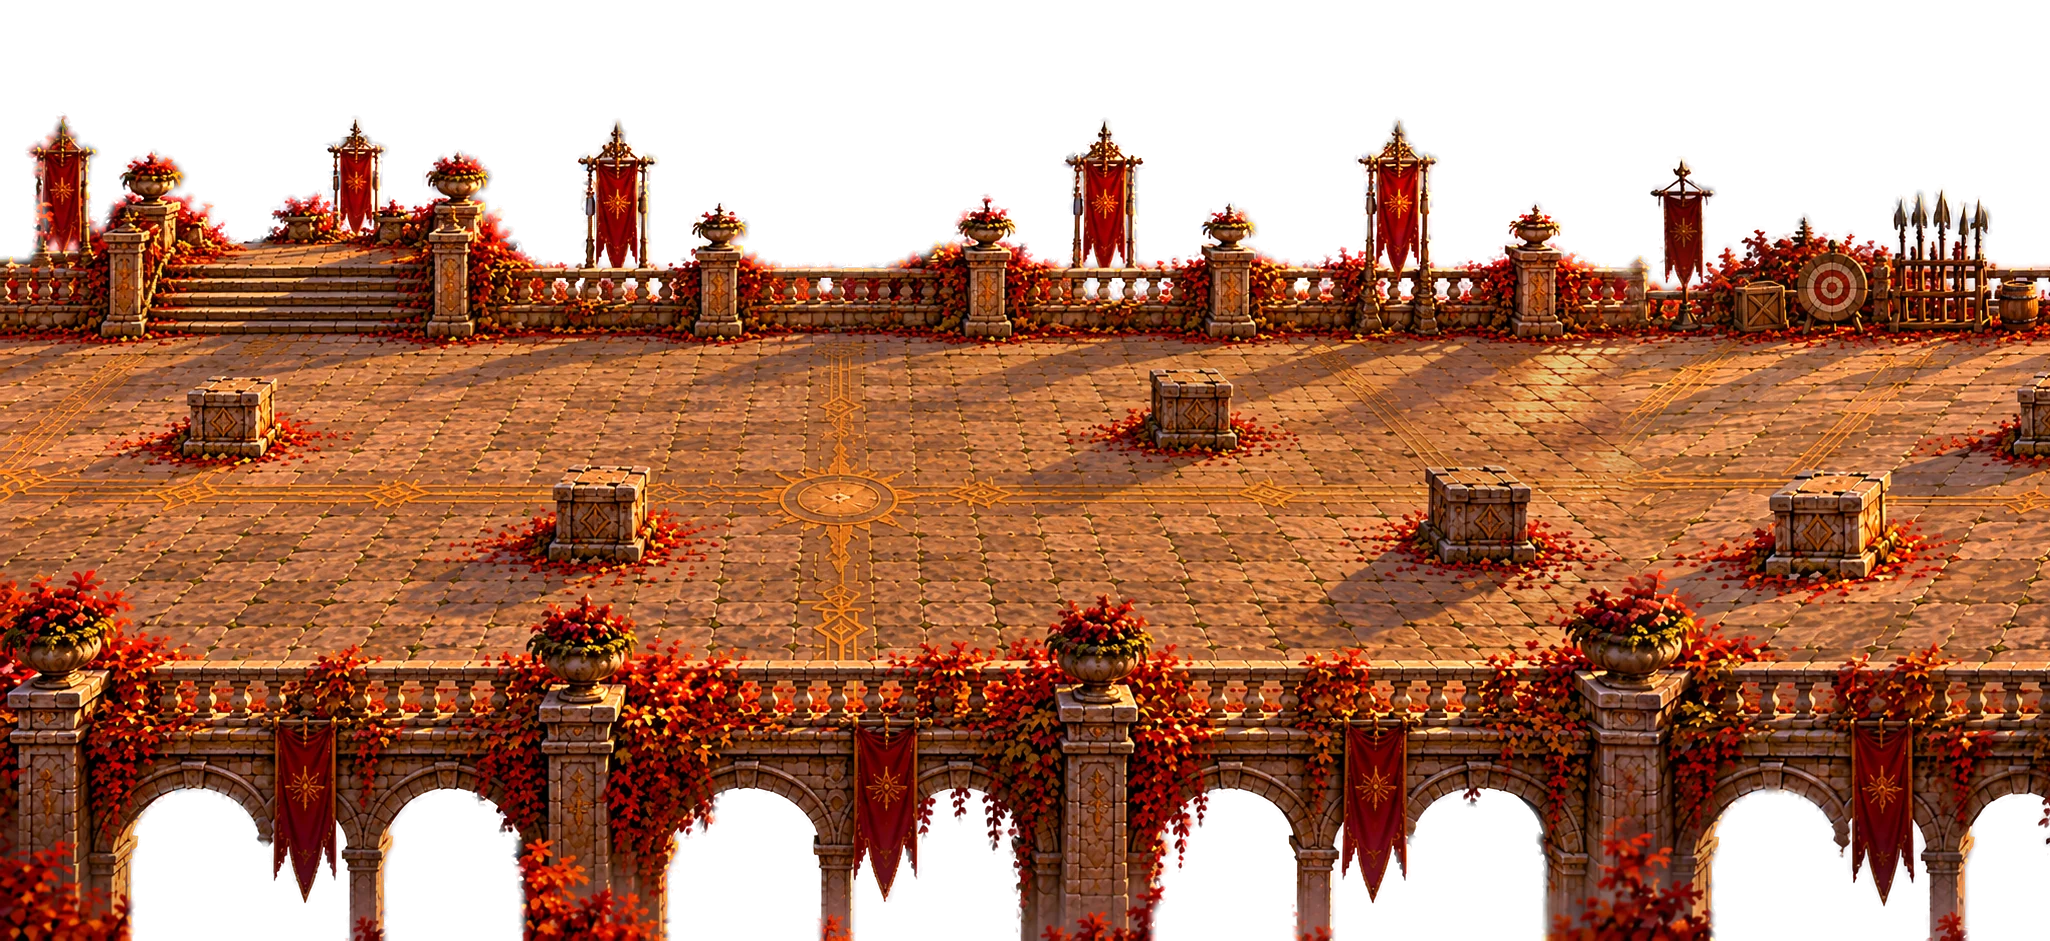
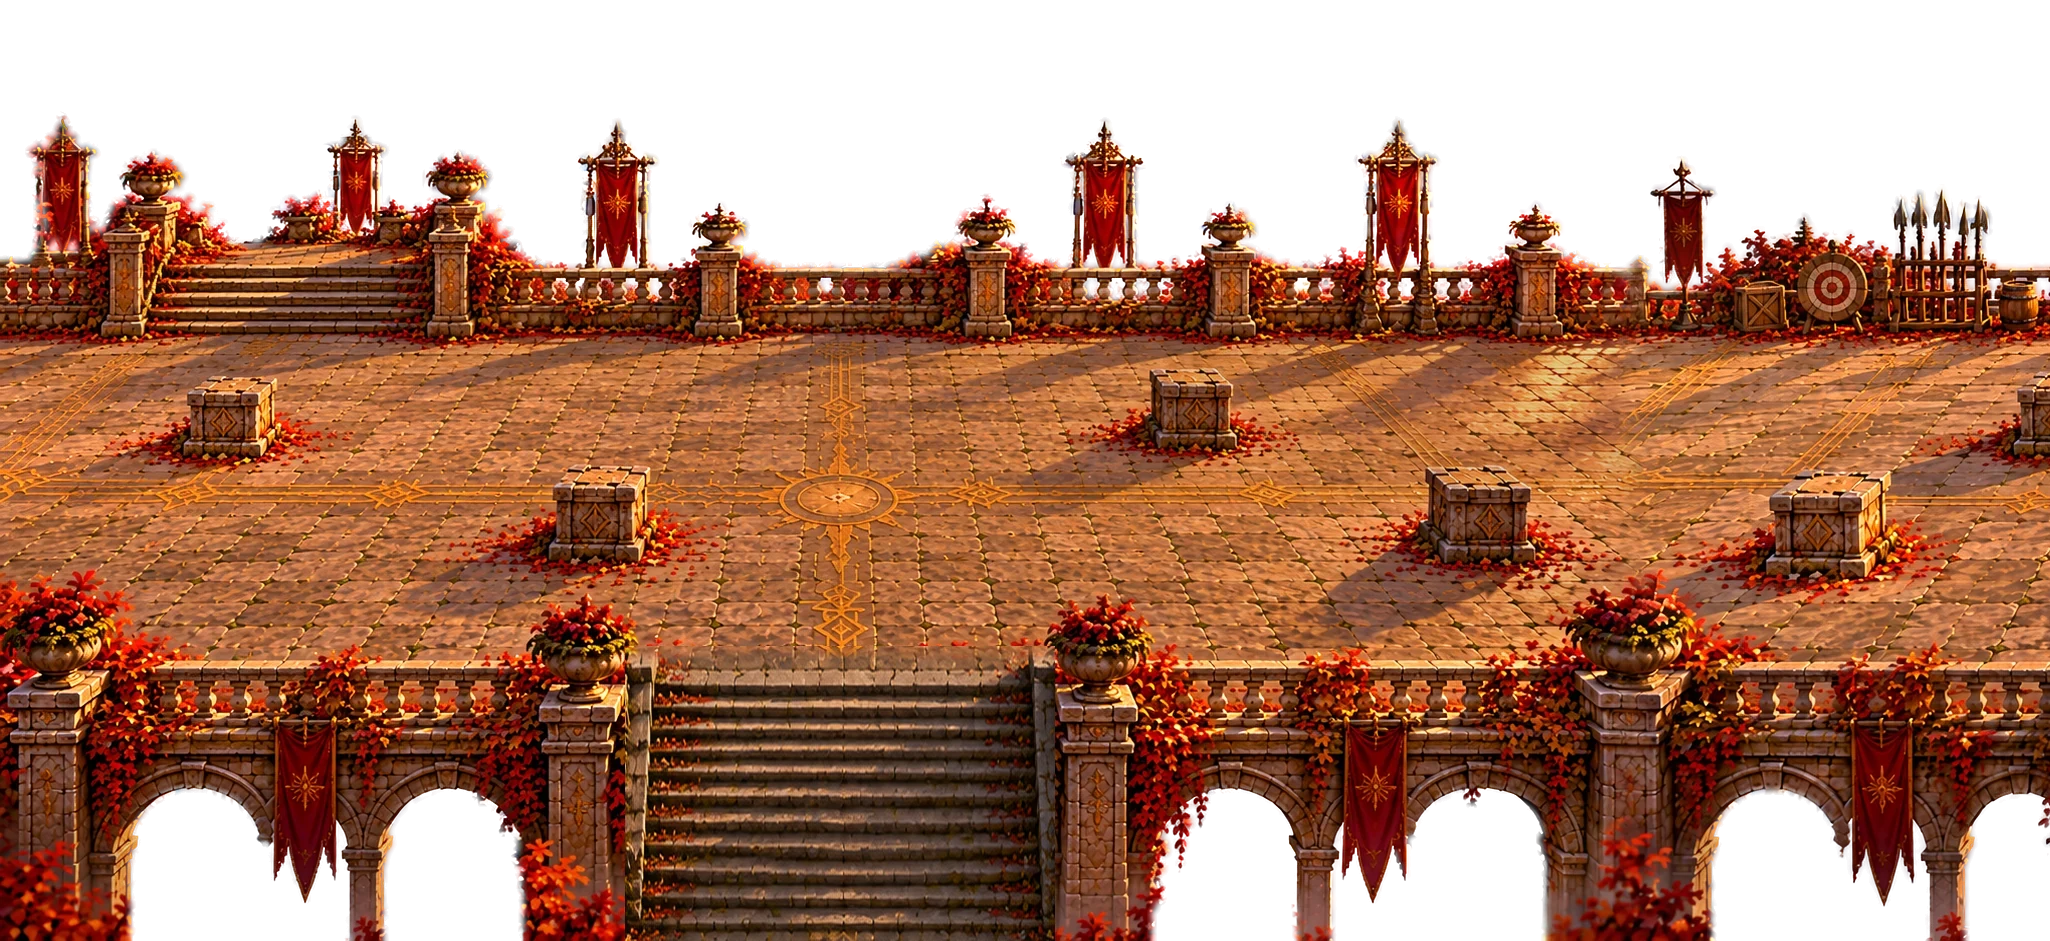
Sun Seal Plaza: a huge boss ground below the Legacy Courtyard, reached by a staircase cut into the courtyard's front arcade; the camera follows you down and back up (no portal, no fade)
Claude-Session: https://claude.ai/code/session_01L1uDDec2PRhRRuGiNU2YTw

Changed region(s): [[0.281, 0.678, 0.5307, 1.0]]

diff --git a/src/world/OpenWorld.ts b/src/world/OpenWorld.ts
@@ -6,7 +6,7 @@
 import Phaser from 'phaser';
 import PROPS from '../data/world-props.json';
 import NPC_ART from '../data/npc-sprites.json';
-import { AREA_H, AREA_W, AreaDef, AreaNpc, BACKDROP, MINIMAP_URL, MOB_KINDS, ROW, START, TILES, WORLD_FLOOR, WORLD_H, WORLD_W, areaAt, tileKey, tileUrl, toWorld, worldObjects } from './Areas';
+import { ARENA, ARENA_AREA, ARENA_MINIMAP_URL, AREA_H, AREA_W, AreaDef, arenaTileKey, arenaTileUrl, belowTerrace, AreaNpc, BACKDROP, MINIMAP_URL, MOB_KINDS, ROW, START, TILES, WORLD_FLOOR, WORLD_H, WORLD_W, areaAt, tileKey, tileUrl, toWorld, worldObjects } from './Areas';
 import { WorldObject, actorDepth, setWorldGeometry } from './WorldGeometry';
 import { Backdrop, preloadBackdrop } from './Backdrop';
 import { Monster, preloadMonsterFrames } from './Monster';
@@ -45,6 +45,7 @@ export function preloadOpenWorld(scene: Phaser.Scene): void {
   const L = (k: string, url: string) => { if (!scene.textures.exists(k)) scene.load.image(k, url); };
   // the world around the start comes with the scene; the rest streams in right after
   for (const i of tilesNear(toWorld(START.area, [START.x, START.y]).x, AREA_W * 1.5)) L(tileKey(i), tileUrl(i));
+  ARENA.tiles.forEach((_, i) => L(arenaTileKey(i), arenaTileUrl(i)));
   for (const id of Object.keys(CUTS)) L(`prop-${id}`, `assets/world/props/${id}.png`);
   for (const [name, a] of Object.entries(ART)) if (!scene.textures.exists(`npc-${name}`)) scene.load.spritesheet(`npc-${name}`, `assets/world/npc/${name}.png`, { frameWidth: a.w, frameHeight: a.h });
   L('kit.keycap', KIT('keycap')); L('kit.npc_plate', KIT('npc_plate'));
@@ -59,6 +60,7 @@ export class OpenWorld {
   area: AreaDef;
   mobs: Monster[] = [];
   private tiles: (Phaser.GameObjects.Image | null)[] = TILES.map(() => null);
+  private arenaTiles: (Phaser.GameObjects.Image | null)[] = ARENA.tiles.map(() => null);
   private occluders: Phaser.GameObjects.Image[] = [];
   private npcs: NpcView[] = [];
   private prompt: Phaser.GameObjects.Container;
@@ -68,6 +70,7 @@ export class OpenWorld {
   private ambience: CourtyardAmbience;
   private backdrop: Backdrop | null = null;
   private camX = 0;
+  private camY = 0;
   private t = 0;
   /** The talk / portal prompt target (null = none in reach). */
   near: { kind: 'npc'; npc: AreaNpc } | { kind: 'portal' } | null = null;
@@ -75,9 +78,10 @@ export class OpenWorld {
   onNpcClick?: (n: AreaNpc) => void;
 
   constructor(private scene: Phaser.Scene, private hooks: WorldHooks, start: { x: number; y: number }) {
-    this.area = areaAt(start.x);
+    this.area = this.areaOf(start.x, start.y);
     setWorldGeometry(WORLD_FLOOR, worldObjects());
     TILES.forEach((_, i) => this.ensureTile(i));
+    ARENA.tiles.forEach((_, i) => this.ensureArenaTile(i));
     scene.load.on(Phaser.Loader.Events.FILE_COMPLETE, this.onFile, this);
     if (!scene.load.isLoading()) scene.load.start();
     this.buildOccluders(); this.buildNpcs(); this.buildPortal(); this.spawnMobs();
@@ -87,11 +91,22 @@ export class OpenWorld {
     const k = scene.add.image(0, 0, 'kit.keycap').setDisplaySize(34, 33);
     this.promptKey = scene.add.text(0, -1, 'Y', { fontFamily: 'Cinzel, Georgia, serif', fontSize: '16px', fontStyle: '700', color: '#ffe9a8', stroke: '#1a1206', strokeThickness: 3, resolution: 2 }).setOrigin(0.5);
     this.prompt = scene.add.container(0, 0, [k, this.promptKey]).setDepth(UI_DEPTH).setVisible(false);
-    this.follow(start.x, 0, true);
+    this.follow(start.x, start.y, 0, true);
   }
 
   // ------------------------------------------------------------------ building
-  private onFile(key: string): void { if (key.startsWith('world-tile-')) this.ensureTile(Number(key.slice(11))); }
+  private onFile(key: string): void {
+    if (key.startsWith('world-tile-')) this.ensureTile(Number(key.slice(11)));
+    else if (key.startsWith('world-arena-')) this.ensureArenaTile(Number(key.slice(12)));
+  }
+
+  /** A tile of the Sun Seal Plaza's picture, under the terrace (its arcade stands on the plaza's top edge). */
+  private ensureArenaTile(i: number): void {
+    if (this.arenaTiles[i]) return;
+    const key = arenaTileKey(i);
+    if (!this.scene.textures.exists(key)) { this.scene.load.image(key, arenaTileUrl(i)); return; }
+    this.arenaTiles[i] = this.scene.add.image(ARENA.tiles[i][0], ARENA.y, key).setOrigin(0, 0).setDepth(-1.5);
+  }
 
   /** A picture tile in place (once its texture is there; queued for loading otherwise). */
   private ensureTile(i: number): void {
@@ -165,13 +180,23 @@ export class OpenWorld {
   /** World x of the screen's left edge. */
   get viewLeft(): number { const cam = this.scene.cameras.main; return this.camX - cam.width / cam.zoom / 2; }
 
-  /** The camera trails the player along the world (snap: straight there). Height: the whole picture, always. */
-  private follow(x: number, ms: number, snap = false): void {
-    const cam = this.scene.cameras.main, half = cam.width / cam.zoom / 2;
-    const target = Phaser.Math.Clamp(x, half, Math.max(half, WORLD_W - half));
-    this.camX = snap ? target : this.camX + (target - this.camX) * (1 - Math.exp(-ms / CAM_EASE));
-    if (Math.abs(target - this.camX) < 0.05) this.camX = target;
-    cam.centerOn(this.camX, WORLD_H / 2);
+  /** The camera trails the player along the world (snap: straight there). On the terrace: its whole height, always. Down
+   *  the stairs it goes down with you (no cut, no fade) and over the plaza it follows you both ways (the terrace runs
+   *  above the whole plaza, so looking up always shows its arcade). */
+  private follow(x: number, y: number, ms: number, snap = false): void {
+    const cam = this.scene.cameras.main, half = cam.width / cam.zoom / 2, halfH = cam.height / cam.zoom / 2;
+    const down = belowTerrace(y), terraceCy = WORLD_H / 2;
+    // height: on the terrace its centre; down the stairs it eases from there onto the player (centred by the stairs' foot)
+    const lead = (ARENA.edgeY - terraceCy) * (1 - Phaser.Math.SmoothStep(y, ARENA.edgeY, ARENA.y));
+    const ty = down ? Phaser.Math.Clamp(y - lead, terraceCy, ARENA.y + ARENA.h - halfH) : terraceCy;
+    const hi = down ? Math.min(WORLD_W, ARENA.x + ARENA.w) - half : WORLD_W - half;
+    const tx = Phaser.Math.Clamp(x, half, Math.max(half, hi));
+    const k = snap ? 1 : 1 - Math.exp(-ms / CAM_EASE);
+    this.camX += (tx - this.camX) * k;
+    if (Math.abs(tx - this.camX) < 0.05) this.camX = tx;
+    this.camY += (ty - this.camY) * k;
+    if (Math.abs(ty - this.camY) < 0.05) this.camY = ty;
+    cam.centerOn(this.camX, this.camY);
     this.ambience.setView(this.viewLeft);
     this.backdrop?.setView(this.viewLeft, cam.width / cam.zoom);
   }
@@ -182,12 +207,15 @@ export class OpenWorld {
     cam.fadeOut(260, 255, 244, 220);
     cam.once(Phaser.Cameras.Scene2D.Events.FADE_OUT_COMPLETE, () => {
       const p = toWorld(id, [x, y]); k.x = p.x; k.y = p.y; k.z = 0; k.vx = 0; k.vy = 0; k.vz = 0; k.grounded = true; k.supportZ = 0;
-      this.follow(p.x, 0, true);
-      this.setArea(areaAt(p.x));
+      this.follow(p.x, p.y, 0, true);
+      this.setArea(this.areaOf(p.x, p.y));
       done?.();
       cam.fadeIn(420, 255, 244, 220);
     });
   }
+
+  /** The area at a spot: the plaza below the terrace's picture, else by x along the strip. */
+  private areaOf(x: number, y: number): AreaDef { return y >= ARENA.y ? ARENA_AREA : areaAt(x); }
 
   private setArea(a: AreaDef): void { if (a === this.area) return; this.area = a; this.hooks.onArea(a); }
 
@@ -195,12 +223,13 @@ export class OpenWorld {
   /** player: z = height above what he stands on, supportZ = the height of that (0 = the floor). */
   update(ms: number, player: { x: number; y: number; z: number; supportZ?: number; alive: boolean }): void {
     this.t += ms;
-    this.follow(player.x, ms);
+    this.follow(player.x, player.y, ms);
     this.ambience.update(ms);
     this.backdrop?.update(ms);
     // the area you are in (by where you stand on the strip; a little past the line, so it never flickers)
-    const a = areaAt(player.x);
-    if (a !== this.area && player.x > a.span[0] + (a.span[0] > 0 ? AREA_HYST : 0) - 1 && player.x < a.span[1] - (a.span[1] < WORLD_W ? AREA_HYST : 0) + 1) this.setArea(a);
+    const a = this.areaOf(player.x, player.y);
+    if (a === ARENA_AREA || this.area === ARENA_AREA) { if (a !== this.area && Math.abs(player.y - ARENA.y) > AREA_HYST) this.setArea(a); }
+    else if (a !== this.area && player.x > a.span[0] + (a.span[0] > 0 ? AREA_HYST : 0) - 1 && player.x < a.span[1] - (a.span[1] < WORLD_W ? AREA_HYST : 0) + 1) this.setArea(a);
     // NPCs: idle loop, quest marker bob
     for (const n of this.npcs) {
       n.t += ms;
@@ -242,6 +271,10 @@ export class OpenWorld {
 
   /** The minimap: a square of the world around you (its full height), sliding along as you walk; its people, the portal. */
   minimap(player: { x: number; y: number }): { label: string; imageUrl: string; image: { x: number; y: number; w: number; h: number }; bounds: { minX: number; minY: number; width: number; height: number }; markers: { id: string; kind: 'player' | 'npc' | 'portal'; x: number; y: number }[] } {
+    if (this.area === ARENA_AREA) {
+      const side = ARENA.h, minX = Phaser.Math.Clamp(player.x - side / 2, ARENA.x, ARENA.x + ARENA.w - side);
+      return { label: ARENA.name, imageUrl: ARENA_MINIMAP_URL, image: { x: ARENA.x, y: ARENA.y, w: ARENA.w, h: ARENA.h }, bounds: { minX, minY: ARENA.y, width: side, height: side }, markers: [{ id: 'local', kind: 'player', x: player.x, y: player.y }] };
+    }
     const side = WORLD_H, minX = Phaser.Math.Clamp(player.x - side / 2, 0, Math.max(0, WORLD_W - side));
     const markers: { id: string; kind: 'player' | 'npc' | 'portal'; x: number; y: number }[] = [{ id: 'local', kind: 'player', x: player.x, y: player.y }];
     for (const n of this.npcs) markers.push({ id: `npc:${n.def.id}`, kind: 'npc', x: n.x, y: n.y });
@@ -255,6 +288,8 @@ export class OpenWorld {
     this.mobs = [];
     for (const im of this.tiles) im?.destroy();
     this.tiles = TILES.map(() => null);
+    for (const im of this.arenaTiles) im?.destroy();
+    this.arenaTiles = ARENA.tiles.map(() => null);
     for (const o of this.occluders) o.destroy();
     for (const n of this.npcs) { n.sprite.destroy(); n.shadow.destroy(); n.plate.destroy(); n.name.destroy(); n.title.destroy(); n.mark.destroy(); }
     if (this.portal) { this.portal.beam.destroy(); this.portal.ring.destroy(); this.portal.glow.destroy(); this.portal.motes.destroy(); }

diff --git a/src/world/Areas.ts b/src/world/Areas.ts
@@ -4,6 +4,7 @@
 // px: world = local + the area's x.
 import DATA from '../data/world-areas.json';
 import STRIP from '../data/world-strip.json';
+import ARENA_DATA from '../data/world-arena.json';
 import { Pt, WorldObject } from './WorldGeometry';
 
 export const AREA_W = DATA.size[0];
@@ -53,8 +54,18 @@ export const QUESTS = DATA.quests as unknown as QuestDef[];
 /** What a quest giver says once all his quests are done. */
 export const IDLE_LINES = DATA.idle as string[];
 
-/** The walkable floor of the whole world (world px, one polygon). */
-export const WORLD_FLOOR = STRIP.walk as Pt[];
+/** The Sun Seal Plaza: the boss ground below the Legacy Courtyard (tools/world/descent.py) — you walk down to it by the
+ *  staircase in the courtyard's front arcade (x stairs[0]..stairs[1], from the floor's front edge edgeY), no portal. */
+export const ARENA = ARENA_DATA as { name: string; x: number; y: number; w: number; h: number; ext: string; tiles: [number, number][]; edgeY: number; stairs: [number, number]; walk: Pt[] };
+export const arenaTileKey = (i: number) => `world-arena-${i}`;
+export const arenaTileUrl = (i: number) => `assets/world/arena/${i}.${ARENA.ext}`;
+export const ARENA_MINIMAP_URL = 'assets/world/minimap/arena.jpg';
+export const ARENA_AREA: AreaDef = { id: 'sealplaza', name: ARENA.name, x: ARENA.x, span: [ARENA.x, ARENA.x + ARENA.w], walk: [], props: [] };
+/** Below the courtyard's front edge: on the stairs or in the plaza. */
+export const belowTerrace = (y: number): boolean => y > ARENA.edgeY;
+
+/** The walkable floor of the whole world (world px, one polygon): the strip's, the stairs and the plaza. */
+export const WORLD_FLOOR = ARENA.walk;
 /** The strip's picture tiles: [x, width] each (they overlap by 2 px). */
 export const TILES = STRIP.tiles as [number, number][];
 export const tileKey = (i: number) => `world-tile-${i}`;

diff --git a/tools/world/descent.py b/tools/world/descent.py
@@ -1,0 +1,97 @@
+# descent.py : the Sun Seal Plaza — the boss ground below the Legacy Courtyard, reached by walking down a staircase
+# cut into the courtyard's front arcade (no portal: the camera just follows you down).
+#   in : tools/world/arena/arena_gpt.png (GPT's picture: the stairs + the plaza, at the strip's scale x 0.5)
+#        tools/world/arena/arena_x2.jpg  (the same, upscaled x2 by Real-ESRGAN x4plus then halved: see arena/README)
+#   out: public/assets/world/arena/<i>.webp (the plaza's picture tiles), the staircase patched into
+#        public/assets/world/strip/0.webp, public/assets/world/minimap/arena.jpg, src/data/world-arena.json
+# Run after strip.py (strip.py runs it at its end).   python3 tools/world/descent.py [--preview]
+import json, os, sys
+import numpy as np
+from PIL import Image, ImageDraw, ImageFilter
+from shapely.geometry import Polygon, box
+from shapely.ops import unary_union
+
+G = os.path.dirname(os.path.abspath(__file__)) + '/'
+R = G + '../../'
+STRIP = json.load(open(R + 'src/data/world-strip.json'))
+TERRACE_H = STRIP['h']                     # 941: the terrace picture's height = where the plaza starts
+EDGE_Y = 652                               # the courtyard floor's front edge (the balustrade)
+
+# GPT picture (native px): the staircase between its cheek walls, and the line under the stairs where the plaza starts
+STAIR = (620, 48, 1050, 236)               # x0, y0, x1, y1
+CROP_Y = 236
+SCALE = 2                                  # plaza: native x2 (its tiles = the courtyard's tiles)
+# where the staircase goes in the courtyard's front arcade: between its two pillars (world px)
+GAP = (625, 1055)
+# the plaza starts at the world's left end (x 0): the terrace runs above all of it, so looking up from anywhere on the
+# plaza shows the courtyard's arcade (the stairs come down onto its left part, the seal is further right)
+OX = 0
+OY = TERRACE_H
+# the walkable stairs (inside the cheek walls; clear of the pillar's footprint, courtyard-urn-2 at x 1016)
+WALK_STAIRS = (650, 1012)
+# the plaza floor (native px): inside the ruined walls and the columns
+FLOOR = [(130, 240), (1540, 240), (1508, 330), (1508, 540), (1585, 600), (1580, 760), (1470, 830), (200, 830),
+         (92, 760), (88, 600), (166, 540), (166, 330)]
+
+def W(p): return (OX + p[0] * SCALE, OY + (p[1] - CROP_Y) * SCALE)
+
+def main():
+  nat = Image.open(G + 'arena/arena_gpt.png').convert('RGB')
+  esr = Image.open(G + 'arena/arena_x2.jpg').convert('RGB')
+  lan = nat.resize(esr.size, Image.LANCZOS)
+  big = Image.blend(lan, esr, 0.65)        # the upscale's clean lines, with the picture's own grain kept
+  plaza = big.crop((0, CROP_Y * SCALE, big.width, big.height))
+  # the arcade's shadow on the plaza's top edge
+  a = np.asarray(plaza).astype(np.float32)
+  sh = np.clip(1 - np.arange(a.shape[0]) / 70, 0, 1) ** 1.6 * 0.42
+  a *= (1 - sh)[:, None, None]
+  plaza = Image.fromarray(a.astype(np.uint8))
+  pw, ph = plaza.size
+  out = R + 'public/assets/world/arena/'; os.makedirs(out, exist_ok=True)
+  for f in os.listdir(out): os.remove(out + f)
+  tiles, half = [], (pw + 1) // 2
+  for i, x in enumerate((0, half - 2)):
+    w = min(pw - x, half + 2)
+    plaza.crop((x, 0, x + w, ph)).save(out + f'{i}.webp', 'WEBP', quality=88, method=6)
+    tiles.append([OX + x, w])
+
+  # the staircase into the courtyard's front arcade (strip tile 0): GPT's stairs stretched to the arcade's height
+  t0p = R + 'public/assets/world/strip/0.webp'
+  t0 = Image.open(t0p).convert('RGBA')
+  top = EDGE_Y - 6
+  st = nat.crop(STAIR).resize((GAP[1] - GAP[0], TERRACE_H - top), Image.LANCZOS).convert('RGBA')
+  m = np.full((st.height, st.width), 255, np.uint8)
+  ramp = 14                                # the top fades into the courtyard floor
+  m[:ramp] = (np.arange(ramp) / ramp * 255).astype(np.uint8)[:, None]
+  st.putalpha(Image.fromarray(m))
+  under = t0.crop((GAP[0], top, GAP[1], TERRACE_H))
+  # under the faded top: the courtyard floor carried down (the rail is gone there)
+  floor = t0.crop((GAP[0], top - ramp, GAP[1], top)).resize((GAP[1] - GAP[0], ramp))
+  base = Image.new('RGBA', st.size); base.paste(under, (0, 0)); base.paste(floor, (0, 0))
+  base.alpha_composite(st)
+  t0.paste(base, (GAP[0], top))
+  t0.save(t0p, 'WEBP', quality=88, alpha_quality=100, method=6)
+
+  # the one floor: the strip's + the stairs + the plaza
+  walk = Polygon(STRIP['walk']).buffer(0)
+  stairs = box(WALK_STAIRS[0], EDGE_Y - 2, WALK_STAIRS[1], OY + (FLOOR[0][1] - CROP_Y) * SCALE + 2)
+  floorW = Polygon([W(p) for p in FLOOR])
+  allw = unary_union([walk, stairs, floorW])
+  assert allw.geom_type == 'Polygon', allw.geom_type
+  coords = [[round(x, 1), round(y, 1)] for x, y in list(allw.exterior.coords)[:-1]]
+
+  mm = R + 'public/assets/world/minimap/'
+  plaza.resize((pw // 4, ph // 4), Image.LANCZOS).save(mm + 'arena.jpg', quality=82)
+  data = {'name': 'Sun Seal Plaza', 'x': OX, 'y': OY, 'w': pw, 'h': ph, 'ext': 'webp', 'tiles': tiles,
+          'edgeY': EDGE_Y, 'stairs': list(WALK_STAIRS), 'walk': coords}
+  json.dump(data, open(R + 'src/data/world-arena.json', 'w'), separators=(',', ':'))
+  print('plaza', OX, OY, pw, ph, 'tiles', tiles, 'floor pts', len(coords))
+
+  if '--preview' in sys.argv:
+    os.makedirs(G + 'qc', exist_ok=True)
+    pv = plaza.copy(); d = ImageDraw.Draw(pv)
+    d.polygon([(x - OX, y - OY) for x, y in floorW.exterior.coords], outline=(0, 255, 0), width=5)
+    pv.resize((pw // 2, ph // 2)).save(G + 'qc/arena.jpg', quality=85)
+    t0.crop((300, 400, 1400, TERRACE_H)).save(G + 'qc/stairs.png')
+
+if __name__ == '__main__': main()

diff --git a/tools/world/strip.py b/tools/world/strip.py
@@ -331,3 +331,6 @@ if '--preview' in sys.argv:
   ov.alpha_composite(lay); os.makedirs(G + 'qc', exist_ok=True)
   ov.convert('RGB').resize((W // 4, AH // 4), Image.LANCZOS).save(G + 'qc/strip.jpg', quality=85)
   ov.convert('RGB').save(G + 'qc/strip_full.jpg', quality=85)
+
+import subprocess, sys as _s
+subprocess.run([_s.executable, G + 'descent.py'], check=True)   # the Sun Seal Plaza below the courtyard (stairs patched into tile 0)
